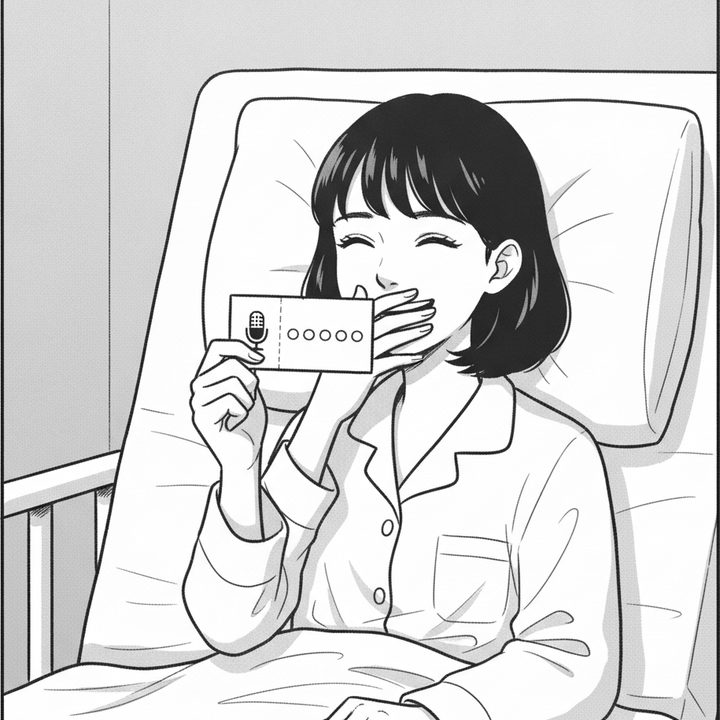
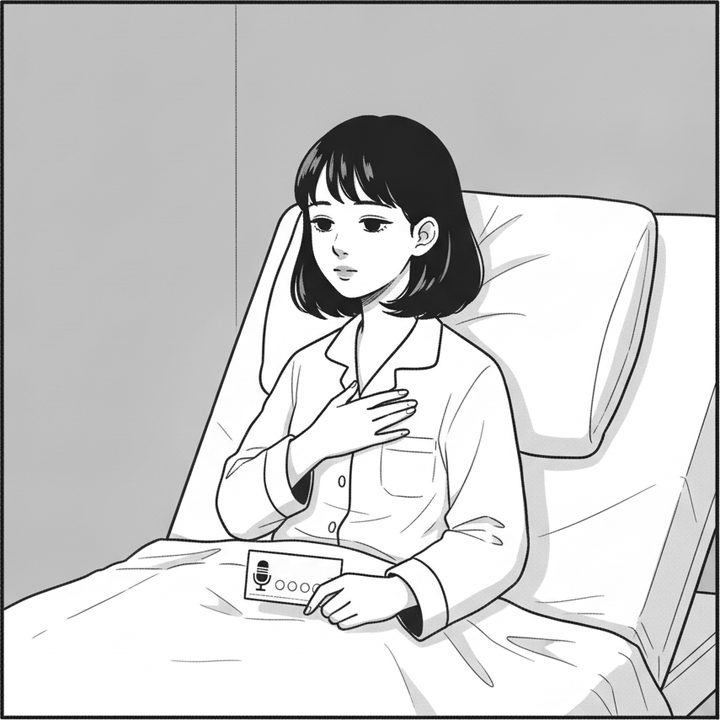
v1.00: the karaoke-coupon panel redrawn — catching her breath, two hands
The line over it is "이제는 크게 말하면 숨이 차."; the panel had her laughing
with a third hand over her mouth, joined to no arm. Now she sits up with a
hand on her chest and the coupon (a microphone and stamp circles, the English
word Gemini added erased in code) in the other. Gemini 1 call (151 total).

diff --git a/scripts/assets/generate-hospital-art.js b/scripts/assets/generate-hospital-art.js
@@ -393,7 +393,9 @@ ink style: a young person seated on a chair breathing slowly, a soft circle of b
   'mono-laces-2': `${SAME_STYLE} One square comic panel filling the whole canvas edge to edge, with a thin black panel border: a close view from the side and low down of a girl's legs in loose school track pants and her worn sneakers mid-stride on a dirt school running track, one shoelace come undone and flying, dust kicked up behind. Only the legs below the knee and the feet are in the panel. Ink lines and grey screentone, no colour, no speech balloons, no words.`,
   'mono-laces-3': `${SAME} No hairpin. One square comic panel filling the whole canvas edge to edge, with a thin black panel border: her standing in a hospital corridor holding the handrail, looking down the long corridor's far end. Ink lines and grey screentone, no colour, no speech balloons, no words.`,
   'mono-coupon-1': `${DRESSED(SCHOOL)} One square comic panel filling the whole canvas edge to edge, with a thin black panel border: after exams, she and two school friends in the same uniforms stand in a small karaoke room shouting a song together with their eyes shut, one holding a microphone, one shaking a tambourine, a cushioned bench and a low table behind them, a screen on the wall showing only soft shapes. No readable words anywhere. Ink lines and grey screentone, no colour, no speech balloons, no words.`,
-  'mono-coupon-2': `${SAME} No hairpin. One square comic panel filling the whole canvas edge to edge, with a thin black panel border: her in a hospital bed laughing quietly with a hand over her mouth, holding up a small paper coupon in the other hand. The coupon shows only a simple printed microphone symbol and a row of small empty stamp circles: no letters, no words, no numbers on it. Ink lines and grey screentone, no colour, no speech balloons, no words.`,
+  // v1.00: what she says over it is that loud talk leaves her short of breath (and the first try had a third hand over
+  // her mouth, on no arm)
+  'mono-coupon-2': `${SAME} No hairpin. One square comic panel filling the whole canvas edge to edge, with a thin black panel border: her sitting up in a hospital bed just after laughing, now short of breath: one hand resting flat on her chest, her eyes half closed, catching her breath with a small tired smile; her other hand lies on the blanket loosely holding a small paper karaoke coupon. Exactly two arms and two hands, each hand clearly joined to its own arm. The coupon shows only a simple printed microphone symbol and a row of small empty stamp circles: no letters, no words, no numbers on it. Ink lines and grey screentone, no colour, no speech balloons, no words.`,
   'mono-coupon-3': `${SAME} No hairpin. One square comic panel filling the whole canvas edge to edge, with a thin black panel border: dusk, her standing at the window of a hospital room on the fourth floor, one hand resting flat against the glass, looking down at a big ginkgo tree in the courtyard far below. Seen past her shoulder and down through the window: the tree's round crown well below the window sill, the courtyard's paths and benches small beneath it. Ink lines and grey screentone, no colour, no speech balloons, no words.`,
   // v0.98: the happy ending in colour, the credits' sky, her whole under the tree, and the title once it's over
   'end-cry': `${SAME} No hairpin. One square comic panel filling the whole canvas edge to edge, with a thin black panel border: In full soft colour this time, warm and bright: the same girl standing on the ground of the hospital courtyard under a golden ginkgo tree, her whole figure from head to feet, her feet on paving covered with fallen golden ginkgo leaves, crying with relief and smiling at once, both hands over her mouth, leaves falling around her, clear blue sky between the branches. The ground is clearly visible. No speech balloons, no words.`,

diff --git a/docs/병문안_모티브와_아트_구상.md b/docs/병문안_모티브와_아트_구상.md
@@ -231,9 +231,9 @@ v0.88 전시용 커버(`cover`, 참조는 `heads-tied`): 묶은 머리의 소녀
 
 v0.92 회상 영상: 장면마다 정사각형 배경(`mem-*-bg`)과 초록 위의 인물(`mem-*-fig`, 참조는 `heads-loose`, 열한두 살의 건강한 소녀). 아침 골목과 강아지, 편의점 앞 두 친구(배경이 꽉 찬 그림 대신 초록 위 가게로 나와, 오려서 해 질 녘 하늘과 바닥 앞에 세움), 운동장 트랙과 꼴찌로 웃으며 뛰는 소녀, 노래방과 세 친구. 재시도 없음.
 
-### 24차 제작 결과 (2026-11-26, Gemini 16회, 누적 150회)
+### 24차 제작 결과 (2026-11-26, Gemini 17회, 누적 151회)
 
-v1.00 현실 검증(사용자 요청, 10회가 넘어 먼저 확인받음): 만화·사전·이완 그림을 하나씩 보고 현실과 안 맞는 14장을 다시 그림. 원인은 대부분 `SAME`("같은 잠옷")이라 학교·동네 기억에서도 환자복과 슬리퍼였던 것: 기억 속 장면은 `DRESSED`로 평상복·교복·체육복. 아침 산책(목줄을 잡고 달림), 빈 현관(집 앞 문턱, 하늘에 뜬 마루였음), 편의점 앞 과자(봉지 하나를 나눔, 친구가 쌍둥이처럼 같아 1회 다시), 운동회(꼴찌인데 맨 앞이었음: 옆에서 본 경주에서 맨 뒤), 운동화 끈(체육복 바지), 노래방(교복), 노래방 쿠폰(영어 글자 대신 마이크 그림과 도장 칸), 창가(4층에서 내려다봄), 엔딩 울음(땅 없이 떠 있었음), 퇴원(병원 안으로 걸어 들어가고 나무가 건물 안에 있었음: 유리문을 나와 걸어옴). 사전: 독심술(상투·한복 할아버지 → 환자복의 요즘 할아버지), 과잉일반화(안개 속 좌판 → 번호표를 든 외래 대기실 어르신과 부르는 간호사), 파국화(모자·선글라스 → 머리를 묶은 엄마). 이완: 발가락 오므리기가 풀린 발과 같았음 → 앞에서 본 짝과 편집 모두 안 돼서(1회 실패) 옆에서 본 짝으로. 예전 원본은 `generated/hospital-art/before-v1.00/`.
+v1.00 현실 검증(사용자 요청, 10회가 넘어 먼저 확인받음): 만화·사전·이완 그림을 하나씩 보고 현실과 안 맞는 14장을 다시 그림. 원인은 대부분 `SAME`("같은 잠옷")이라 학교·동네 기억에서도 환자복과 슬리퍼였던 것: 기억 속 장면은 `DRESSED`로 평상복·교복·체육복. 아침 산책(목줄을 잡고 달림), 빈 현관(집 앞 문턱, 하늘에 뜬 마루였음), 편의점 앞 과자(봉지 하나를 나눔, 친구가 쌍둥이처럼 같아 1회 다시), 운동회(꼴찌인데 맨 앞이었음: 옆에서 본 경주에서 맨 뒤), 운동화 끈(체육복 바지), 노래방(교복), 노래방 쿠폰(영어 글자 대신 마이크 그림과 도장 칸), 창가(4층에서 내려다봄), 엔딩 울음(땅 없이 떠 있었음), 퇴원(병원 안으로 걸어 들어가고 나무가 건물 안에 있었음: 유리문을 나와 걸어옴). 사전: 독심술(상투·한복 할아버지 → 환자복의 요즘 할아버지), 과잉일반화(안개 속 좌판 → 번호표를 든 외래 대기실 어르신과 부르는 간호사), 파국화(모자·선글라스 → 머리를 묶은 엄마). 이완: 발가락 오므리기가 풀린 발과 같았음 → 앞에서 본 짝과 편집 모두 안 돼서(1회 실패) 옆에서 본 짝으로. 이어서 사용자 지적으로 노래방 쿠폰 컷(대사 "이제는 크게 말하면 숨이 차.")을 다시 그림(1회): 입을 가린 손이 어느 팔에도 이어져 있지 않았고(손이 셋), 활짝 웃는 얼굴이 대사와 맞지 않아 가슴에 손을 얹고 숨을 고르는 모습으로. 쿠폰에 또 들어간 영어 "KARAOKE"는 코드로 지움(상자 안에 떨어진 글자 획만, 엄지 선은 남김). 예전 원본은 `generated/hospital-art/before-v1.00/`.
 
 ### 23차 제작 결과 (2026-11-25, Gemini 1회, 누적 134회)
 
